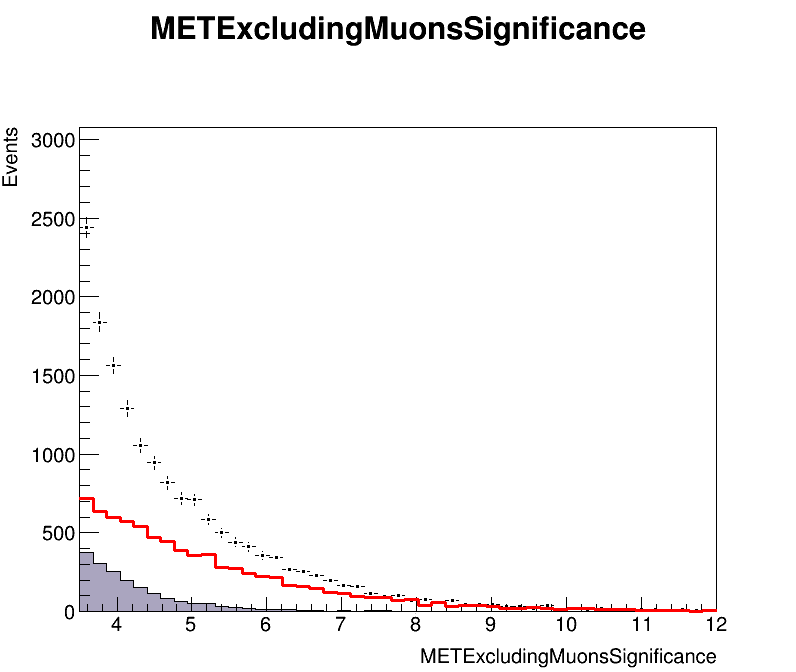
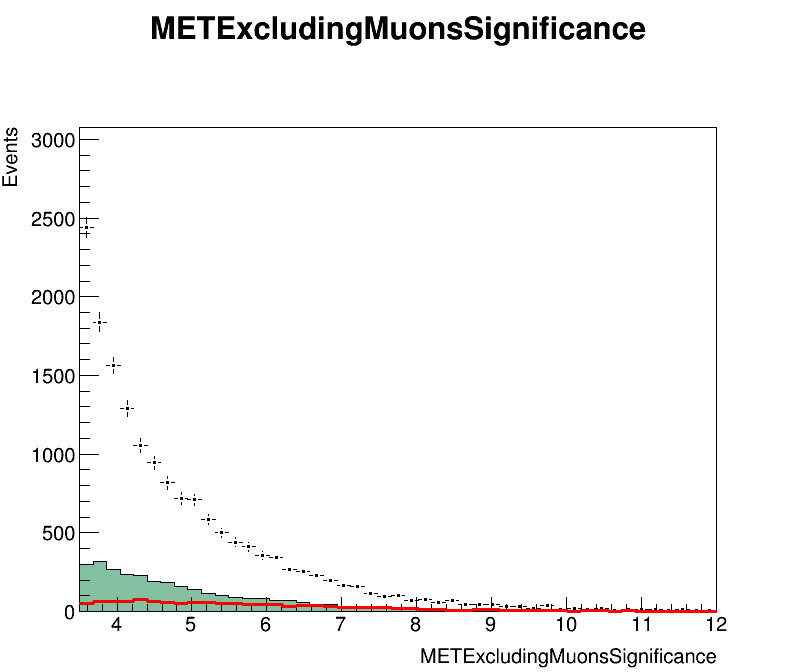
fixing bugs yet bugs still remain

diff --git a/src/histo_plot.cpp b/src/histo_plot.cpp
@@ -22,21 +22,20 @@ void HistoPlot::draw_plot(Variable* var, std::vector<DataChain*> bg_chains,
   stack.Draw();
   data_histo->Draw("SAME");
   signal_histo->Draw("SAME");
-
   style_stacked_histo(&stack, var->name_styled);
 
   TH1F* plot_histos[3] = {(TH1F*)(stack.GetStack()->Last()), data_histo, signal_histo};
   TH1F* max_histo 	   	= get_max_histo(plot_histos);
-
   //draw_subtitle(var, variables, with_cut, plot_histos[0], plot_histos[2]);
 
   stack.SetMaximum(get_histo_y_max(max_histo)*1.2);
   //build_legend(legend, max_histo, var, with_cut);
-  //std::cout << "legend built" << std::endl;
+  std::cout << "im on line 35 of histoplot" << std::endl;
   p1->cd();
   draw_title(var->name_styled);
-
+  std::cout << "im on line 36 of histoplot" << std::endl;
   c1->SaveAs((build_file_name(var, with_cut)).c_str());
+  std::cout << "im on line 38 of histoplot" << std::endl;
   c1->Close();
 }
 
@@ -69,7 +68,7 @@ std::string HistoPlot::get_selection(Variable* variable, std::vector<Variable*>*
 	  	selection = variable->build_singlecut_selection(with_cut, is_signal, lepton_sel);
 	 }
   selection += "*" + mc_weight;
-  std::cout <<"selection : "<< selection<<"\n";
+ // std::cout <<"selection : "<< selection<<"\n";
 		return selection;
 }
 
@@ -168,14 +167,15 @@ THStack HistoPlot::draw_stacked_histo(TLegend* legend, Variable* var, std::vecto
 {
   THStack stack(var->name_styled, "");
 
-  for(int i = 0; i < 1/*bg_chains.size()*/; i++) {
-  	//std::cout << bg_chains[i]->label << std::endl;
+  for(int i = 0; i < bg_chains.size(); i++) {
+  	std::cout << bg_chains[i]->label << std::endl;
    double other_bg_in_ctrl = get_all_bg_in_ctrl(bg_chains, var, with_cut, variables, bg_chains[i]->lepton_selection);
    double z_ll_mcw;// the z_ll mc decay weight as an input to mc_weight_str to find z_nunu
    std::string mc_weight_str = get_mc_weight_str(bg_chains[i], data_chain, var, variables, with_cut,z_ll_mcw,
 																																																															other_bg_in_ctrl);
    std::cout << bg_chains[i]->label << " -- mc weight string: " << mc_weight_str << std::endl;
-   TH1F* single_bg_histo = draw_background(bg_chains[i], var, colours()[i], with_cut,mc_weight_str, variables, lepton_sel_default());
+   TH1F* single_bg_histo = draw_background(bg_chains[i], var, colours()[i], with_cut,mc_weight_str, variables, HistoPlot::lepton_sel_default());
+   std::cout<<"bg histo stack plotted"<<"\n";
    stack.Add(single_bg_histo);
    legend->AddEntry(single_bg_histo, bg_chains[i]->legend, "f");
   }
@@ -259,7 +259,7 @@ TH1F* HistoPlot::build_1d_histo(DataChain* data_chain, Variable* variable, bool 
 {
 		std::string var_arg   = variable->build_var_string(data_chain->label, with_cut);
   std::string selection = get_selection(variable, variables, with_cut, is_signal, mc_weight, lepton_sel);
-  //std::cout << data_chain->label << " : " << selection << std::endl;
+  std::cout << data_chain->label << " : " << selection << std::endl;
 
   data_chain->chain->Draw(var_arg.c_str(), selection.c_str(), option);
 
@@ -269,7 +269,7 @@ TH1F* HistoPlot::build_1d_histo(DataChain* data_chain, Variable* variable, bool 
 TH1F* HistoPlot::draw_data(DataChain* data_chain, Variable* variable, bool with_cut, TLegend* legend,
 																											std::vector<Variable*>* variables, std::string lepton_sel)
 {
-  std::string mc_weight = HistoPlot::mc_weight_default();
+  std::string mc_weight = get_string_from_double(1.0);
   data_chain->chain->SetMarkerStyle(7);
   data_chain->chain->SetMarkerColor(1);
   data_chain->chain->SetLineColor(1);
@@ -282,7 +282,7 @@ TH1F* HistoPlot::draw_data(DataChain* data_chain, Variable* variable, bool with_
 TH1F* HistoPlot::draw_signal(DataChain* data_chain, Variable* variable, bool with_cut, TLegend* legend,
 																													std::vector<Variable*>* variables, std::string lepton_sel)
 {
-  std::string mc_weight = mc_weight_default();
+  std::string mc_weight= get_string_from_double(1.0);
   data_chain->chain->SetLineColor(2);
   data_chain->chain->SetLineWidth(3);
   data_chain->chain->SetFillColor(0);

diff --git a/src/main.cpp b/src/main.cpp
@@ -11,18 +11,19 @@ void produce_graphs(bool with_cut) {
 		std::vector<DataChain*> bg_chains = super_chains->get_bg_chains();
 		DataChain* signal_chain 										= super_chains->signal_chain;
 		DataChain* data_chain 												= super_chains->data_chain;
-std::cout<< "bg chain size: "<<bg_chains.size()<<"\n";
-std::cout<< "var size: "<<vars.size()<<"\n";
 
-  for (int i = 1; 2/*i < vars.size()*/; i++)
+  for (int i = 0; 1/* vars.size()*/; i++)
   {
+		std::cout<< vars[i]->name<<"\n";
   		HistoPlot::draw_plot(vars[i], bg_chains, signal_chain, data_chain, with_cut, &cut_vars);
+		std::cout<<"im on line 19 of main"<<"\n";
   }
 }
 
 int main(int argc, char** argv) {
   TApplication theApp("tapp", &argc, argv);
   produce_graphs(true);
+  std::cout<<"im on line 25 of main"<<"\n";
   theApp.Run();
   return 0;
 }

diff --git a/src/variable.cpp b/src/variable.cpp
@@ -118,9 +118,9 @@ std::string Variable::build_multicut_selection(bool is_signal, std::vector<Varia
 		}
 
    sel_string += "&&" + lepton_sel; 
-  	sel_string.append(")*(total_weight_lepveto))");
+  	sel_string.append(")*(total_weight_lepveto)");
 
-		std::cout << "selection string" << sel_string <<"\n";
+		//std::cout << "selection string" << sel_string <<"\n";
 		return sel_string;
 }
 
